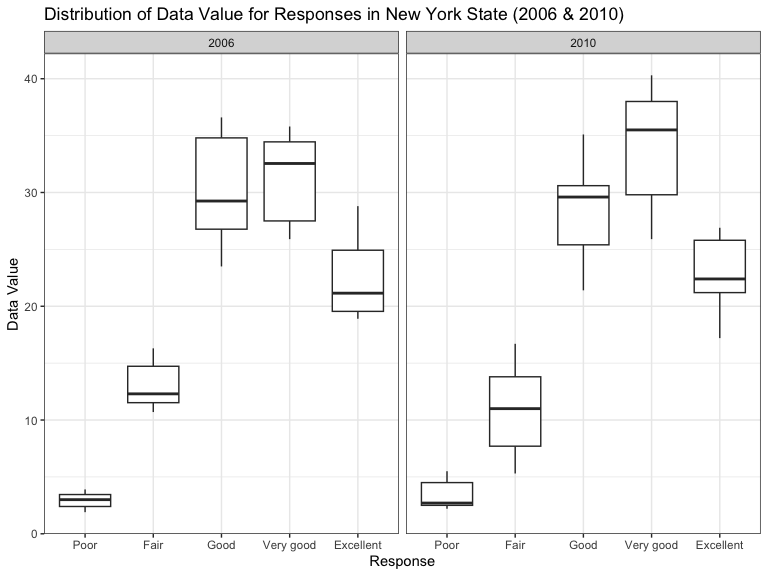
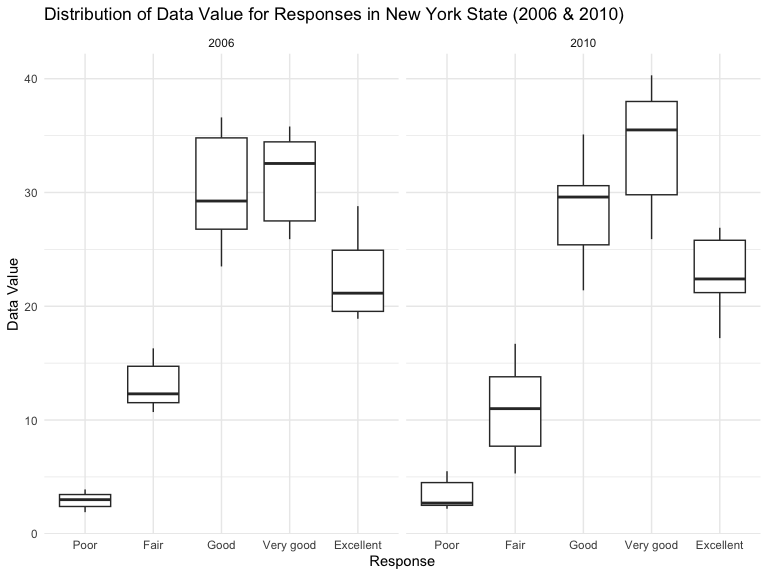
working on problem 3

Changed region(s): [[0.0312, 0.0312, 1.0, 0.125]]

diff --git a/p8105_hw3_xl3371.md b/p8105_hw3_xl3371.md
@@ -162,16 +162,13 @@ excellent_df = brfss_clean %>%
 ### “Spaghetti” plot
 
 ``` r
-excellent_plot =
-  ggplot(excellent_df, aes(x = year, y = data_value_mean, group = locationabbr, color = locationabbr)) +
+excellent_df %>%
+  ggplot(aes(x = year, y = data_value_mean, group = locationabbr, color = locationabbr)) +
   geom_line() +
   labs(title = "Average Value Over Time by State",
        x = "Year",
        y = "Average Value",
-       color = "State") +
-  theme_bw()
-
-excellent_plot
+       color = "State")
 ```
 
 <img src="p8105_hw3_xl3371_files/figure-gfm/unnamed-chunk-12-1.png" width="90%" />
@@ -182,17 +179,14 @@ within each state and it only relates the response of `Excellent`.
 ### Two-panel plot
 
 ``` r
-two_panel_plot = brfss_clean %>%
+brfss_clean %>%
   filter(locationabbr == "NY" & year %in% c(2006, 2010)) %>%
   ggplot(aes(x = response, y = data_value)) +
   geom_boxplot() +
   labs(title = "Distribution of Data Value for Responses in New York State (2006 & 2010)",
        x = "Response",
        y = "Data Value") +
-  facet_wrap(~year, ncol = 2) +
-  theme_bw()
-
-two_panel_plot
+  facet_wrap(~year, ncol = 2)
 ```
 
 <img src="p8105_hw3_xl3371_files/figure-gfm/unnamed-chunk-13-1.png" width="90%" />
@@ -216,9 +210,9 @@ covar_data = read_csv("./data/nhanes_covar.csv", skip = 4) %>%
                  "1" = "male",
                  "2" = "female"),
     education = recode(education,
-                       "1" = "Less than high school",
-                       "2" = "High school equivalent",
-                       "3" = "More than high school"),
+                       "1" = "Level 1",
+                       "2" = "Level 2",
+                       "3" = "Level 3"),
     sex = factor(sex), 
     education = factor(education)
   )
@@ -241,7 +235,7 @@ accel_data = read_csv("./data/nhanes_accel.csv") %>%
 data_merge = left_join(covar_data, accel_data, by = "seqn")
 ```
 
-### Produce a reader-friendly table for the number of men and women in each education category, and create a visualization of the age distributions for men and women in each education category. Comment on these items.
+### Table for the number of men and women in each education category Comment on these items.
 
 ``` r
 data_merge |>
@@ -250,11 +244,22 @@ data_merge |>
   knitr::kable(digits = 1)
 ```
 
-| sex    | education              | count |
-|:-------|:-----------------------|------:|
-| female | High school equivalent | 33120 |
-| female | Less than high school  | 40320 |
-| female | More than high school  | 84960 |
-| male   | High school equivalent | 50400 |
-| male   | Less than high school  | 38880 |
-| male   | More than high school  | 80640 |
+| sex    | education | count |
+|:-------|:----------|------:|
+| female | Level 1   | 40320 |
+| female | Level 2   | 33120 |
+| female | Level 3   | 84960 |
+| male   | Level 1   | 38880 |
+| male   | Level 2   | 50400 |
+| male   | Level 3   | 80640 |
+
+### Visualization of the age distributions for men and women in each education category.
+
+``` r
+data_merge %>%
+  ggplot(aes(x = education, y = age, fill = sex)) +
+  geom_boxplot() +
+  labs(title = "Age Distribution by Education and Gender", x = "Education", y = "Age")
+```
+
+<img src="p8105_hw3_xl3371_files/figure-gfm/unnamed-chunk-18-1.png" width="90%" />
